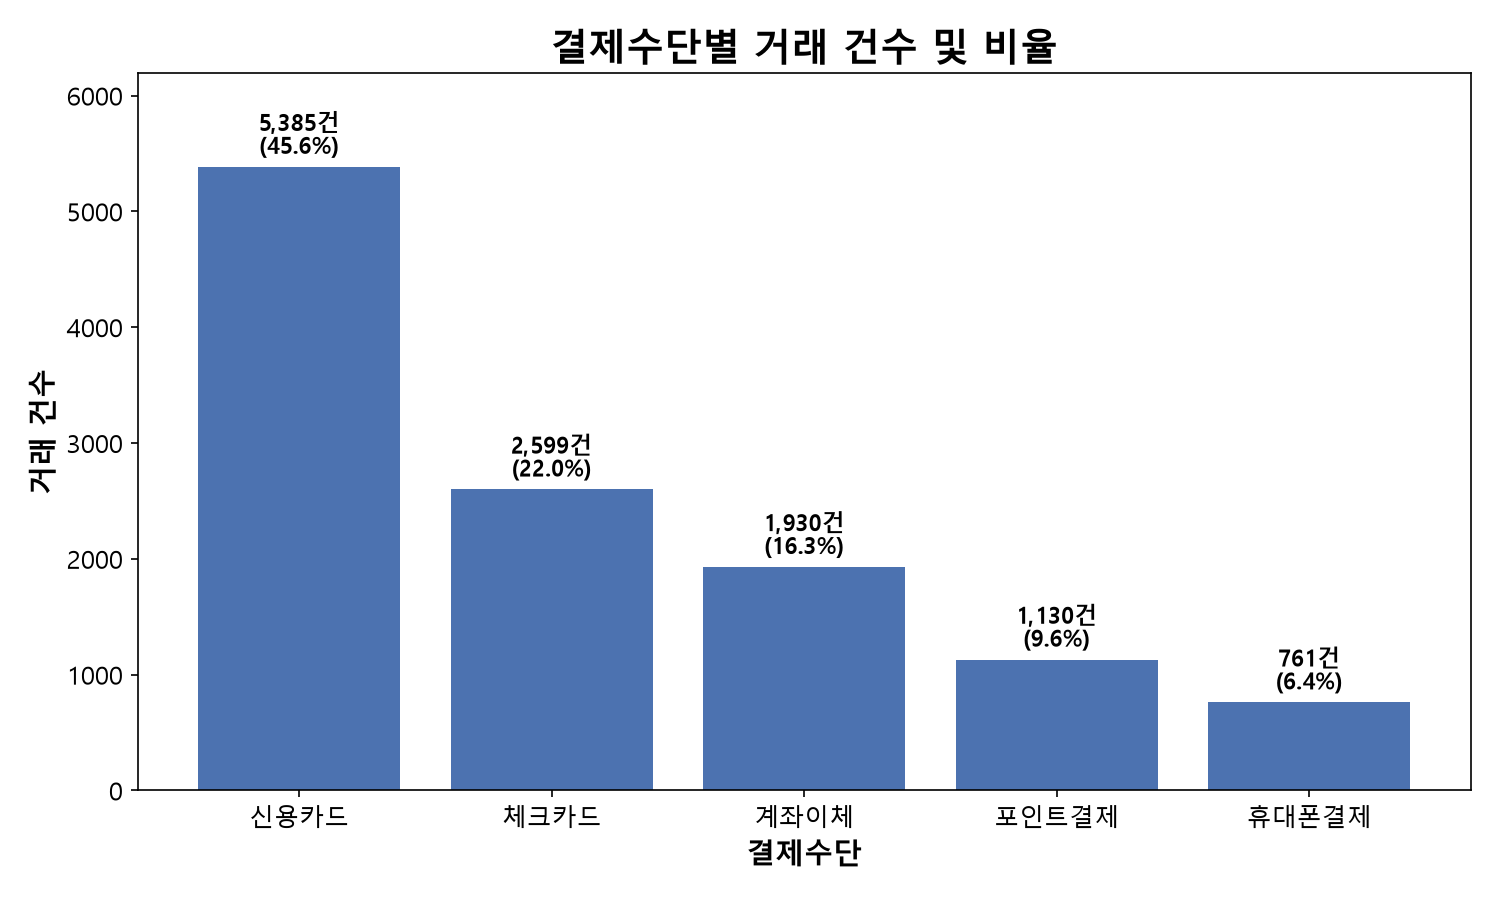
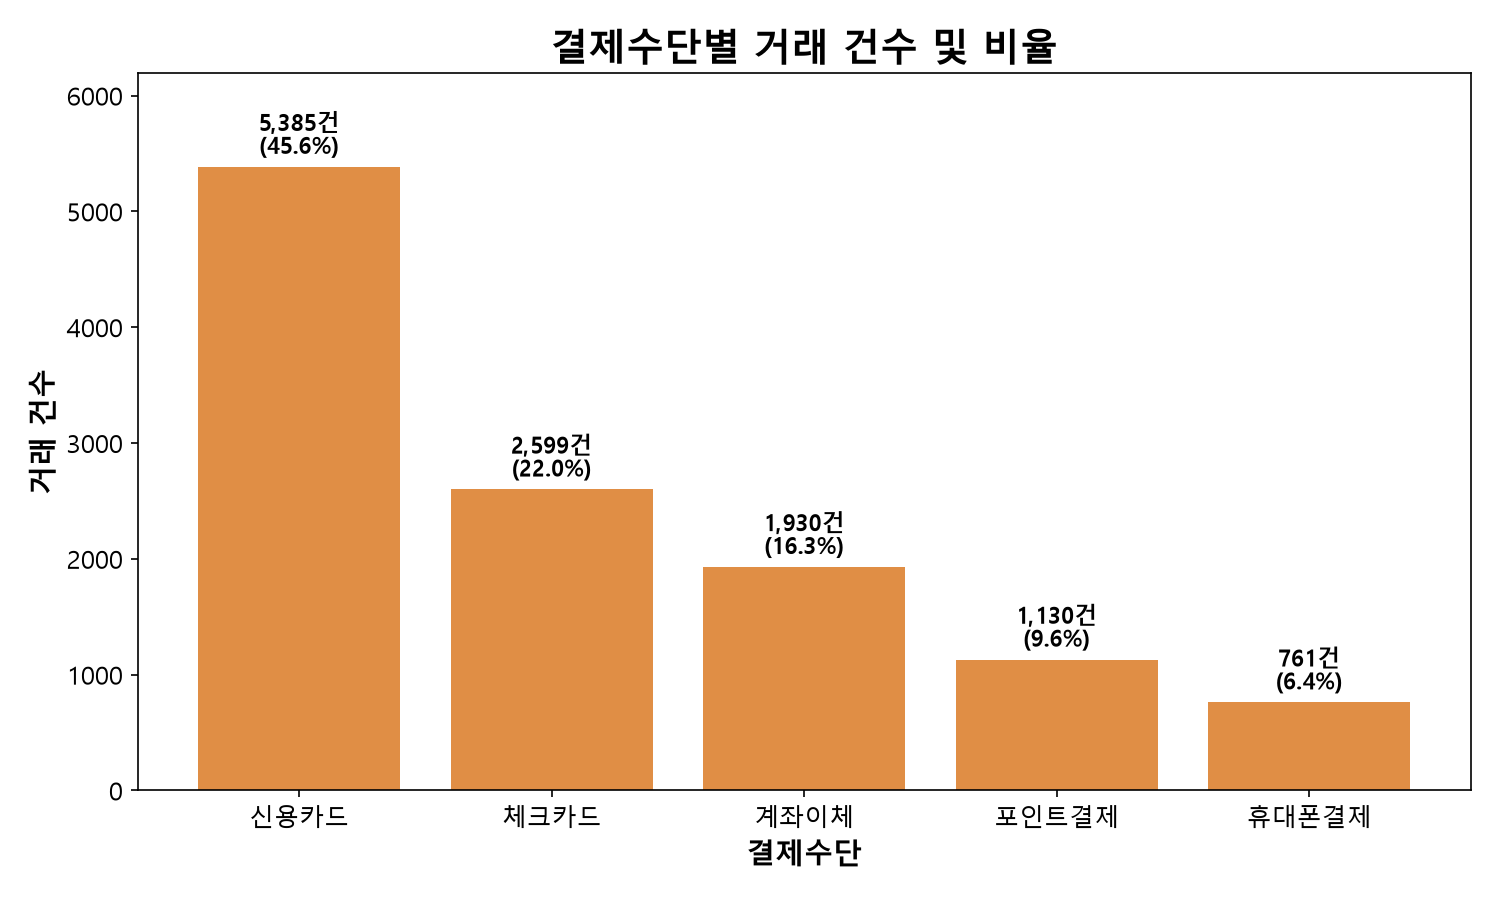
그래프 색상을 따뜻한 오렌지 계열로 변경, 월별 추이·결제수단 비중 그래프 및 분석 보고서 추가
Claude-Session: https://claude.ai/code/session_01LZdg1f9QtFQKoLo3eTQjnP

Changed region(s): [[0.1227, 0.1867, 0.9507, 0.9022]]

diff --git a/scripts/plot_월별_결제수단.py b/scripts/plot_월별_결제수단.py
@@ -1,0 +1,57 @@
+import os
+os.chdir(os.path.dirname(os.path.abspath(__file__)) + "/..")
+
+import pandas as pd
+import matplotlib.pyplot as plt
+import matplotlib as mpl
+
+mpl.rcParams["font.family"] = "Malgun Gothic"
+mpl.rcParams["axes.unicode_minus"] = False
+mpl.rcParams["font.size"] = 13
+
+df = pd.read_csv("data/핀테크_정제완료.csv", encoding="utf-8-sig")
+df["거래일시"] = pd.to_datetime(df["거래일시"], format="mixed")
+df["연월"] = df["거래일시"].dt.to_period("M").astype(str)
+
+os.makedirs("output/charts", exist_ok=True)
+
+# ---------- 1) 월별 거래금액 합계 - 선 그래프 ----------
+monthly = df.groupby("연월")["거래금액"].sum().sort_index()
+
+fig1, ax1 = plt.subplots(figsize=(10, 6))
+ax1.plot(monthly.index, monthly.values, marker="o", color="#D9822B", linewidth=2)
+ax1.set_title("월별 거래금액 합계", fontsize=18, fontweight="bold")
+ax1.set_xlabel("연월", fontsize=14, fontweight="bold")
+ax1.set_ylabel("총 거래금액 (원)", fontsize=14, fontweight="bold")
+ax1.tick_params(axis="x", rotation=45, labelsize=11)
+ax1.tick_params(axis="y", labelsize=12)
+ax1.grid(axis="y", linestyle="--", alpha=0.4)
+
+for x, y in zip(monthly.index, monthly.values):
+    ax1.annotate(f"{y:,.0f}", xy=(x, y), xytext=(0, 6), textcoords="offset points",
+                 ha="center", fontsize=8)
+
+fig1.tight_layout()
+fig1.savefig("output/charts/월별_거래금액_추이.png", dpi=150)
+print("저장 완료: output/charts/월별_거래금액_추이.png")
+
+# ---------- 2) 결제수단별 거래금액 비중 - 도넛 차트 ----------
+pay = df.groupby("결제수단")["거래금액"].sum().sort_values(ascending=False)
+pct = pay / pay.sum() * 100
+
+fig2, ax2 = plt.subplots(figsize=(8, 8))
+colors = plt.cm.Oranges_r([i / len(pay) * 0.7 for i in range(len(pay))])
+wedges, texts, autotexts = ax2.pie(
+    pay.values, labels=pay.index, autopct="%.1f%%", startangle=90,
+    pctdistance=0.8, colors=colors,
+    wedgeprops=dict(width=0.4, edgecolor="white"),
+    textprops=dict(fontsize=12, fontweight="bold"),
+)
+ax2.set_title("결제수단별 거래금액 비중", fontsize=18, fontweight="bold")
+ax2.axis("equal")
+
+fig2.tight_layout()
+fig2.savefig("output/charts/결제수단별_금액비중.png", dpi=150)
+print("저장 완료: output/charts/결제수단별_금액비중.png")
+
+plt.show()

diff --git a/scripts/plot_결제수단.py b/scripts/plot_결제수단.py
@@ -17,7 +17,7 @@ counts = df["결제수단"].value_counts(dropna=True).sort_values(ascending=Fals
 pct = counts / counts.sum() * 100
 
 fig, ax = plt.subplots(figsize=(10, 6))
-bars = ax.bar(counts.index, counts.values, color="#4C72B0")
+bars = ax.bar(counts.index, counts.values, color="#E08E45")
 ax.set_title("결제수단별 거래 건수 및 비율", fontsize=18, fontweight="bold")
 ax.set_xlabel("결제수단", fontsize=14, fontweight="bold")
 ax.set_ylabel("거래 건수", fontsize=14, fontweight="bold")

diff --git a/scripts/plot_report_업종_세로.py b/scripts/plot_report_업종_세로.py
@@ -11,7 +11,7 @@ df = pd.read_csv("data/핀테크_정제완료.csv", encoding="utf-8-sig")
 
 grouped = df.groupby("가맹점업종")["거래금액"].sum().sort_values(ascending=False)
 
-colors = ["#D62728"] + ["#4C72B0"] * (len(grouped) - 1)
+colors = ["#C0392B"] + ["#F0A868"] * (len(grouped) - 1)
 
 fig, ax = plt.subplots(figsize=(10, 6))
 bars = ax.bar(grouped.index, grouped.values, color=colors)

diff --git a/그래프_분석_보고서.md b/그래프_분석_보고서.md
@@ -1,0 +1,48 @@
+# 핀테크 결제 데이터 그래프 분석 보고서
+
+데이터 출처: `data/핀테크_정제완료.csv`
+
+---
+
+## 1. 업종별 총 거래금액
+
+![업종별 총 거래금액](output/charts/업종별_총거래금액.png)
+
+- '여행' 업종이 126,354,008원으로 1위, 전체의 22.0%를 차지합니다.
+- '쇼핑'(120,599,357원)이 근소한 차이로 2위이며, 상위 두 업종이 전체의 약 43%를 차지해 매출이 소수 업종에 집중된 구조입니다.
+- '교통'(5,244,276원)은 최하위로, 1위 업종과 24배 차이가 납니다. 건당 단가가 낮은 소액·고빈도 결제(대중교통) 특성상 총액 자체는 작게 잡히는 것으로 보입니다.
+- **시사점**: 매출 확대 관점에서는 여행·쇼핑처럼 이미 단가가 높은 업종에 대한 제휴/프로모션이 효율적이며, 교통처럼 총액이 작은 업종은 건수 기반 서비스(포인트 적립 등)로 접근하는 게 맞습니다.
+
+---
+
+## 2. 월별 거래금액 추이
+
+![월별 거래금액 추이](output/charts/월별_거래금액_추이.png)
+
+- 3월(54,092,876원)이 연중 최고치, 10월(43,180,278원)이 최저치입니다.
+- 최댓값과 최솟값 차이는 약 1,090만 원으로, 월별 변동폭이 전체 평균(약 4,800만 원)의 20% 남짓 — 뚜렷한 계절성보다는 완만한 등락에 가깝습니다.
+- 1~3월 상승 후 4월 급락, 이후 5월 재상승 등 톱니 형태의 변동이 반복돼 특정 이벤트(설 연휴, 분기 결산 등)와 연관 지어볼 필요가 있습니다.
+- **시사점**: 뚜렷한 성수기·비수기 구간이 없어 프로모션을 특정 시즌에 몰아줄 근거는 약하며, 월별 변동 원인(업종·이벤트)을 더 파봐야 실질적 인사이트가 나옵니다.
+
+---
+
+## 3. 결제수단별 거래금액 비중
+
+![결제수단별 거래금액 비중](output/charts/결제수단별_금액비중.png)
+
+- 신용카드가 금액 기준 38.5%로 압도적 1위, 체크카드(21.5%)·계좌이체(16.1%)가 뒤를 잇습니다.
+- 건수 비중(39.2%)과 금액 비중(38.5%)이 거의 같아, 신용카드는 건당 단가도 평균 수준이라는 뜻입니다.
+- 도넛에 `' 신용카드'`(공백 오염, 5.1%)와 `'알수없음'`(결측 대체, 3.2%)이 별도 조각으로 남아있습니다. 공백 오염분을 신용카드에 합치면 실제 신용카드 비중은 약 43.7%로 올라갑니다.
+- **시사점**: 신용카드 의존도가 가장 높은 결제 채널이므로 카드사 제휴가 매출에 가장 직접적인 영향을 줄 수 있습니다. 다만 공백 오염 데이터를 정제 파이프라인에서 마저 병합해야 비중 수치가 더 정확해집니다.
+
+---
+
+## 종합 요약
+
+| 그래프 | 핵심 시사점 |
+|---|---|
+| 업종별 총액 | 여행·쇼핑에 매출 집중, 교통은 소액·고빈도 |
+| 월별 추이 | 3월 최고·10월 최저, 뚜렷한 계절성은 약함 |
+| 결제수단 비중 | 신용카드 최다(38.5%~43.7%), 데이터 정제 여지 있음 |
+
+세 그래프를 종합하면, 매출은 특정 업종(여행·쇼핑)과 특정 결제수단(신용카드)에 집중돼 있고 시간축으로는 뚜렷한 성수기가 없는 구조입니다. 프로모션 우선순위는 시즌보다 업종·결제수단 조합(예: 여행 업종 + 신용카드 제휴)에 맞추는 것이 더 근거 있는 접근입니다.
